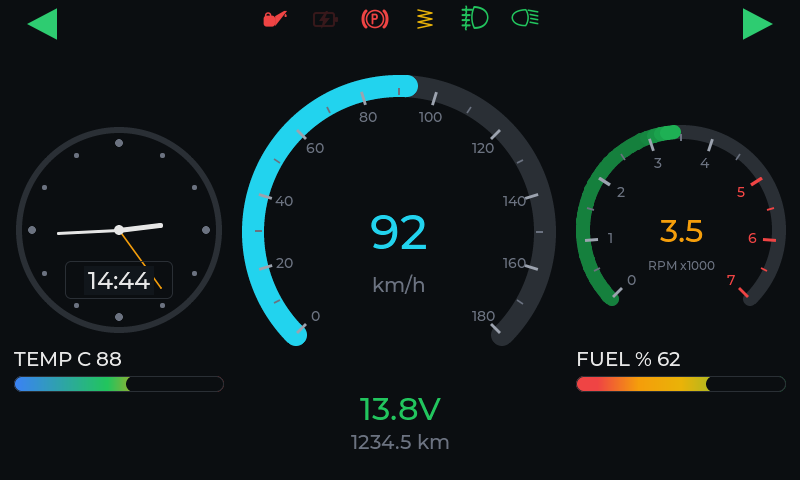
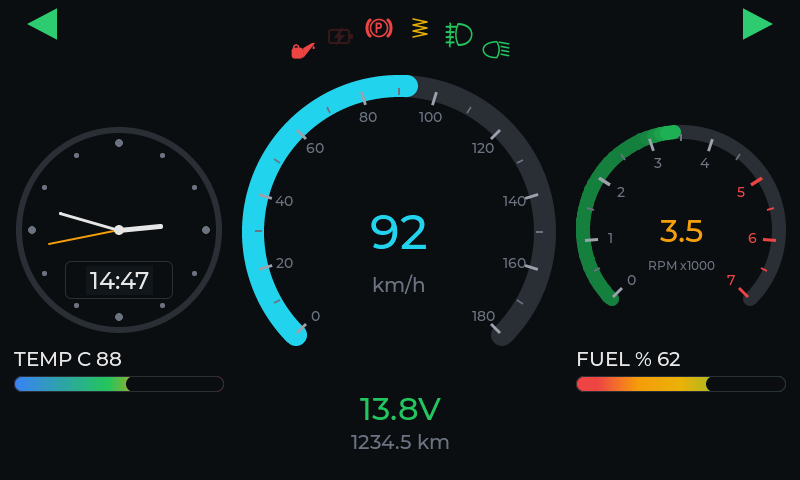
feat(ui): расположить иконки по дуге над спидометром

diff --git a/arduino/t3-dash/ui_lvgl.cpp b/arduino/t3-dash/ui_lvgl.cpp
@@ -26,6 +26,14 @@ constexpr uint32_t COL_TURN = 0x2ECC71;
 
 constexpr int SIDE_SIZE = 210;
 constexpr int SPEED_SIZE = 315;
+
+// Status icons sit on a circular orbit concentric with the speedometer.
+constexpr float SPEED_CX = 242.0f + SPEED_SIZE / 2.0f;
+constexpr float SPEED_CY = 75.0f + SPEED_SIZE / 2.0f;
+constexpr float ICON_ORBIT_R = 205.0f;
+constexpr float ICON_ORBIT_START_DEG = -28.0f;
+constexpr float ICON_ORBIT_STEP_DEG = 11.2f;
+constexpr int STATUS_ICON_SIZE = 30;
 constexpr int CLOCK_SIZE = 210;
 
 struct Gauge {
@@ -441,15 +449,25 @@ void setIconState(lv_obj_t* icon, bool on) {
   lv_obj_set_style_img_opa(icon, on ? LV_OPA_COVER : LV_OPA_20, 0);
 }
 
-lv_obj_t* createStatusIcon(lv_obj_t* parent, const lv_img_dsc_t* src, int x,
+lv_obj_t* createStatusIcon(lv_obj_t* parent, const lv_img_dsc_t* src, int x, int y,
                            uint32_t color) {
   lv_obj_t* icon = lv_img_create(parent);
   lv_img_set_src(icon, src);
-  lv_obj_set_pos(icon, x, 4);
+  lv_obj_set_pos(icon, x, y);
   lv_obj_set_style_img_recolor(icon, lv_color_hex(color), 0);
   lv_obj_set_style_img_recolor_opa(icon, LV_OPA_COVER, 0);
   lv_obj_set_style_img_opa(icon, LV_OPA_20, 0);
   return icon;
+}
+
+lv_obj_t* createOrbitIcon(lv_obj_t* parent, const lv_img_dsc_t* src, int index,
+                          uint32_t color) {
+  const float deg = ICON_ORBIT_START_DEG + ICON_ORBIT_STEP_DEG * index;
+  const float rad = deg * 3.14159265f / 180.0f;
+  const int cx = (int)(SPEED_CX + ICON_ORBIT_R * sinf(rad) + 0.5f);
+  const int cy = (int)(SPEED_CY - ICON_ORBIT_R * cosf(rad) + 0.5f);
+  return createStatusIcon(parent, src, cx - STATUS_ICON_SIZE / 2,
+                          cy - STATUS_ICON_SIZE / 2, color);
 }
 
 lv_obj_t* createTurnArrow(lv_obj_t* parent, const lv_img_dsc_t* src, int x, int y) {
@@ -661,14 +679,14 @@ void init() {
   lv_obj_set_style_bg_color(screen, lv_color_hex(COL_BG), 0);
   lv_obj_set_style_bg_opa(screen, LV_OPA_COVER, 0);
 
-  // Status icons are grouped in the middle of the top row.
-  g_iconOil = createStatusIcon(screen, &icon_oil, 260, COL_RED);
-  g_iconChg = createStatusIcon(screen, &icon_charge, 310, COL_RED);
-  g_iconBrake = createStatusIcon(screen, &icon_brake, 360, COL_RED);
-  g_iconGlow = createStatusIcon(screen, &icon_glow, 410, COL_YELLOW);
-  g_iconFog = createStatusIcon(screen, &icon_fog, 460, COL_GREEN);
-  g_iconLowBeam = createStatusIcon(screen, &icon_beam_low, 510, COL_GREEN);
-  g_iconBeam = createStatusIcon(screen, &icon_beam_high, 510, COL_BLUE);
+  // Status icons follow an arc concentric with the speedometer.
+  g_iconOil = createOrbitIcon(screen, &icon_oil, 0, COL_RED);
+  g_iconChg = createOrbitIcon(screen, &icon_charge, 1, COL_RED);
+  g_iconBrake = createOrbitIcon(screen, &icon_brake, 2, COL_RED);
+  g_iconGlow = createOrbitIcon(screen, &icon_glow, 3, COL_YELLOW);
+  g_iconFog = createOrbitIcon(screen, &icon_fog, 4, COL_GREEN);
+  g_iconLowBeam = createOrbitIcon(screen, &icon_beam_low, 5, COL_GREEN);
+  g_iconBeam = createOrbitIcon(screen, &icon_beam_high, 5, COL_BLUE);
 
   // Classic VW turn signal arrows: left on the left edge, right on the right edge.
   g_turnLeft = createTurnArrow(screen, &icon_arrow_left, 20, 8);

diff --git a/src/ui/lvgl/ui_lvgl.cpp b/src/ui/lvgl/ui_lvgl.cpp
@@ -26,6 +26,14 @@ constexpr uint32_t COL_TURN = 0x2ECC71;
 
 constexpr int SIDE_SIZE = 210;
 constexpr int SPEED_SIZE = 315;
+
+// Status icons sit on a circular orbit concentric with the speedometer.
+constexpr float SPEED_CX = 242.0f + SPEED_SIZE / 2.0f;
+constexpr float SPEED_CY = 75.0f + SPEED_SIZE / 2.0f;
+constexpr float ICON_ORBIT_R = 205.0f;
+constexpr float ICON_ORBIT_START_DEG = -28.0f;
+constexpr float ICON_ORBIT_STEP_DEG = 11.2f;
+constexpr int STATUS_ICON_SIZE = 30;
 constexpr int CLOCK_SIZE = 210;
 
 struct Gauge {
@@ -441,15 +449,25 @@ void setIconState(lv_obj_t* icon, bool on) {
   lv_obj_set_style_img_opa(icon, on ? LV_OPA_COVER : LV_OPA_20, 0);
 }
 
-lv_obj_t* createStatusIcon(lv_obj_t* parent, const lv_img_dsc_t* src, int x,
+lv_obj_t* createStatusIcon(lv_obj_t* parent, const lv_img_dsc_t* src, int x, int y,
                            uint32_t color) {
   lv_obj_t* icon = lv_img_create(parent);
   lv_img_set_src(icon, src);
-  lv_obj_set_pos(icon, x, 4);
+  lv_obj_set_pos(icon, x, y);
   lv_obj_set_style_img_recolor(icon, lv_color_hex(color), 0);
   lv_obj_set_style_img_recolor_opa(icon, LV_OPA_COVER, 0);
   lv_obj_set_style_img_opa(icon, LV_OPA_20, 0);
   return icon;
+}
+
+lv_obj_t* createOrbitIcon(lv_obj_t* parent, const lv_img_dsc_t* src, int index,
+                          uint32_t color) {
+  const float deg = ICON_ORBIT_START_DEG + ICON_ORBIT_STEP_DEG * index;
+  const float rad = deg * 3.14159265f / 180.0f;
+  const int cx = (int)(SPEED_CX + ICON_ORBIT_R * sinf(rad) + 0.5f);
+  const int cy = (int)(SPEED_CY - ICON_ORBIT_R * cosf(rad) + 0.5f);
+  return createStatusIcon(parent, src, cx - STATUS_ICON_SIZE / 2,
+                          cy - STATUS_ICON_SIZE / 2, color);
 }
 
 lv_obj_t* createTurnArrow(lv_obj_t* parent, const lv_img_dsc_t* src, int x, int y) {
@@ -661,14 +679,14 @@ void init() {
   lv_obj_set_style_bg_color(screen, lv_color_hex(COL_BG), 0);
   lv_obj_set_style_bg_opa(screen, LV_OPA_COVER, 0);
 
-  // Status icons are grouped in the middle of the top row.
-  g_iconOil = createStatusIcon(screen, &icon_oil, 260, COL_RED);
-  g_iconChg = createStatusIcon(screen, &icon_charge, 310, COL_RED);
-  g_iconBrake = createStatusIcon(screen, &icon_brake, 360, COL_RED);
-  g_iconGlow = createStatusIcon(screen, &icon_glow, 410, COL_YELLOW);
-  g_iconFog = createStatusIcon(screen, &icon_fog, 460, COL_GREEN);
-  g_iconLowBeam = createStatusIcon(screen, &icon_beam_low, 510, COL_GREEN);
-  g_iconBeam = createStatusIcon(screen, &icon_beam_high, 510, COL_BLUE);
+  // Status icons follow an arc concentric with the speedometer.
+  g_iconOil = createOrbitIcon(screen, &icon_oil, 0, COL_RED);
+  g_iconChg = createOrbitIcon(screen, &icon_charge, 1, COL_RED);
+  g_iconBrake = createOrbitIcon(screen, &icon_brake, 2, COL_RED);
+  g_iconGlow = createOrbitIcon(screen, &icon_glow, 3, COL_YELLOW);
+  g_iconFog = createOrbitIcon(screen, &icon_fog, 4, COL_GREEN);
+  g_iconLowBeam = createOrbitIcon(screen, &icon_beam_low, 5, COL_GREEN);
+  g_iconBeam = createOrbitIcon(screen, &icon_beam_high, 5, COL_BLUE);
 
   // Classic VW turn signal arrows: left on the left edge, right on the right edge.
   g_turnLeft = createTurnArrow(screen, &icon_arrow_left, 20, 8);
